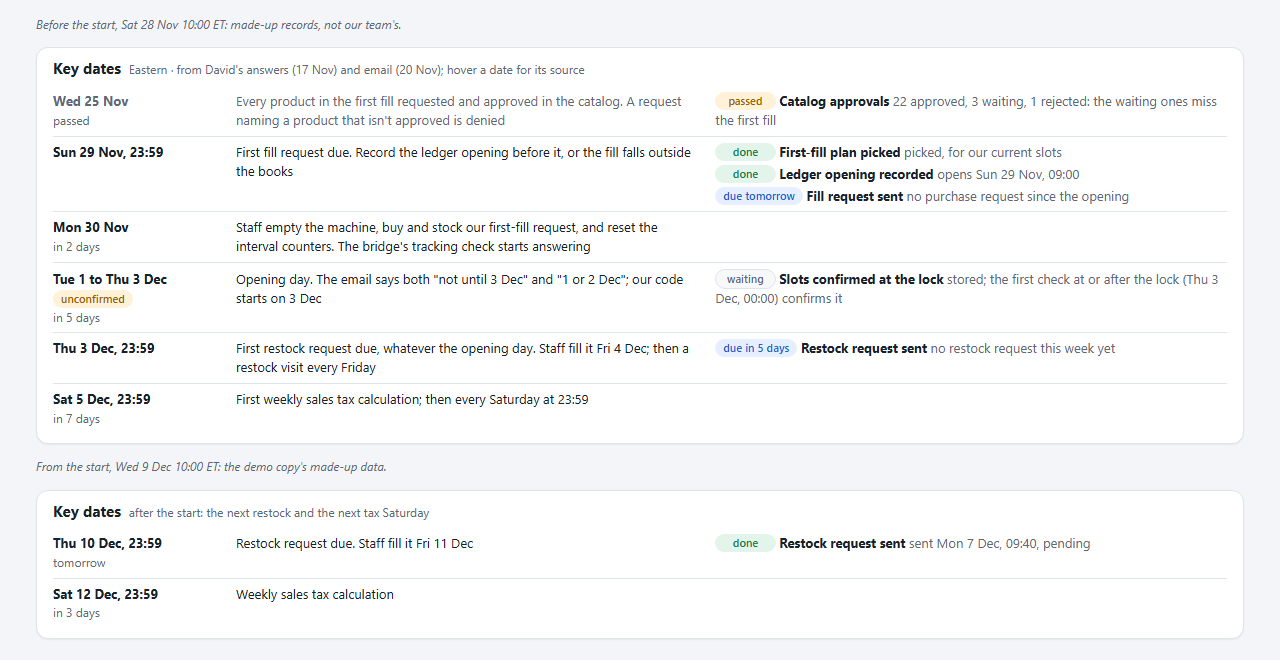
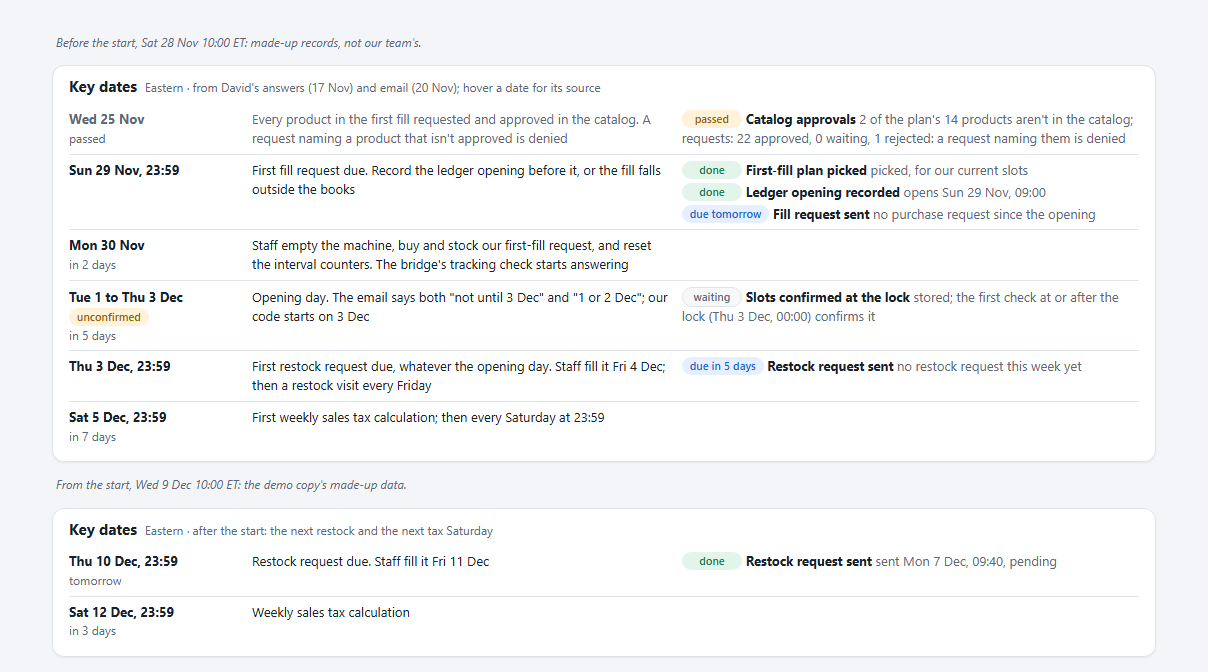
Key dates: say Eastern in the after-start view too; retake the screenshot

diff --git a/vending/key_dates.py b/vending/key_dates.py
@@ -429,7 +429,7 @@ def html(panel_: dict | None) -> str:
             f'<span class="kd-when"><b>{escape(row["when"])}</b>{flag}{sub}</span>'
             f'<span class="kd-what">{escape(row["what"])}</span>'
             + (f'<ul class="kd-checks">{checks}</ul>' if checks else "") + "</li>")
-    hint = ("after the start: the next restock and the next tax Saturday" if data["after_start"]
+    hint = ("Eastern &middot; after the start: the next restock and the next tax Saturday" if data["after_start"]
             else "Eastern &middot; from David's answers (17 Nov) and email (20 Nov); hover a date for its source")
     unread = f'<p class="honest">{escape(READ_FAILED)}.</p>' if data["unread"] else ""
     return (f'<section id="dates" class="kd"><h2>Key dates <span class="hint">{hint}</span></h2>{unread}'

diff --git a/tests/test_key_dates.py b/tests/test_key_dates.py
@@ -374,3 +374,8 @@ def test_a_restock_request_sent_in_the_cutoffs_last_minute_counts_for_that_week(
     restock = key_dates.build(et(12, 3, 23, 59, 40), f, counts(), LOCK)["rows"][0]
     assert restock["when"] == "Thu 3 Dec, 23:59" and not restock["passed"]
     assert check(restock, "restock_request")["status"] == "done"
+
+
+def test_the_section_says_its_times_are_eastern_after_the_start_too():
+    built = key_dates.build(et(12, 9, 10), facts(checked=LOCK), counts(), LOCK)
+    assert '<span class="hint">Eastern &middot; after the start' in key_dates.html({"ok": True, "data": built})

diff --git a/docs/dashboard.md b/docs/dashboard.md
@@ -184,7 +184,7 @@ A small panel under the status bar, so the team sees what's next without opening
 ![The Key dates panel before the start (made-up records, Sat 28 Nov) and from the start (the demo copy, Wed 9 Dec)](images/dashboard-key-dates.png)
 
 *Made-up records, not the team's: the top panel is drawn from invented facts at Sat 28 Nov 10:00 ET, the
-bottom one from the demo copy's snapshot. Rendered 20 Nov 2026.*
+bottom one from the demo copy's snapshot. Rendered 21 Nov 2026.*
 
 The dates live in one place, `DATES` in `vending/key_dates.py`, each with its source (David's answers of
 17 Nov in `docs/planning/2026-11-17-david-answers.md`, and his email of 20 Nov). Edit a date there: the
